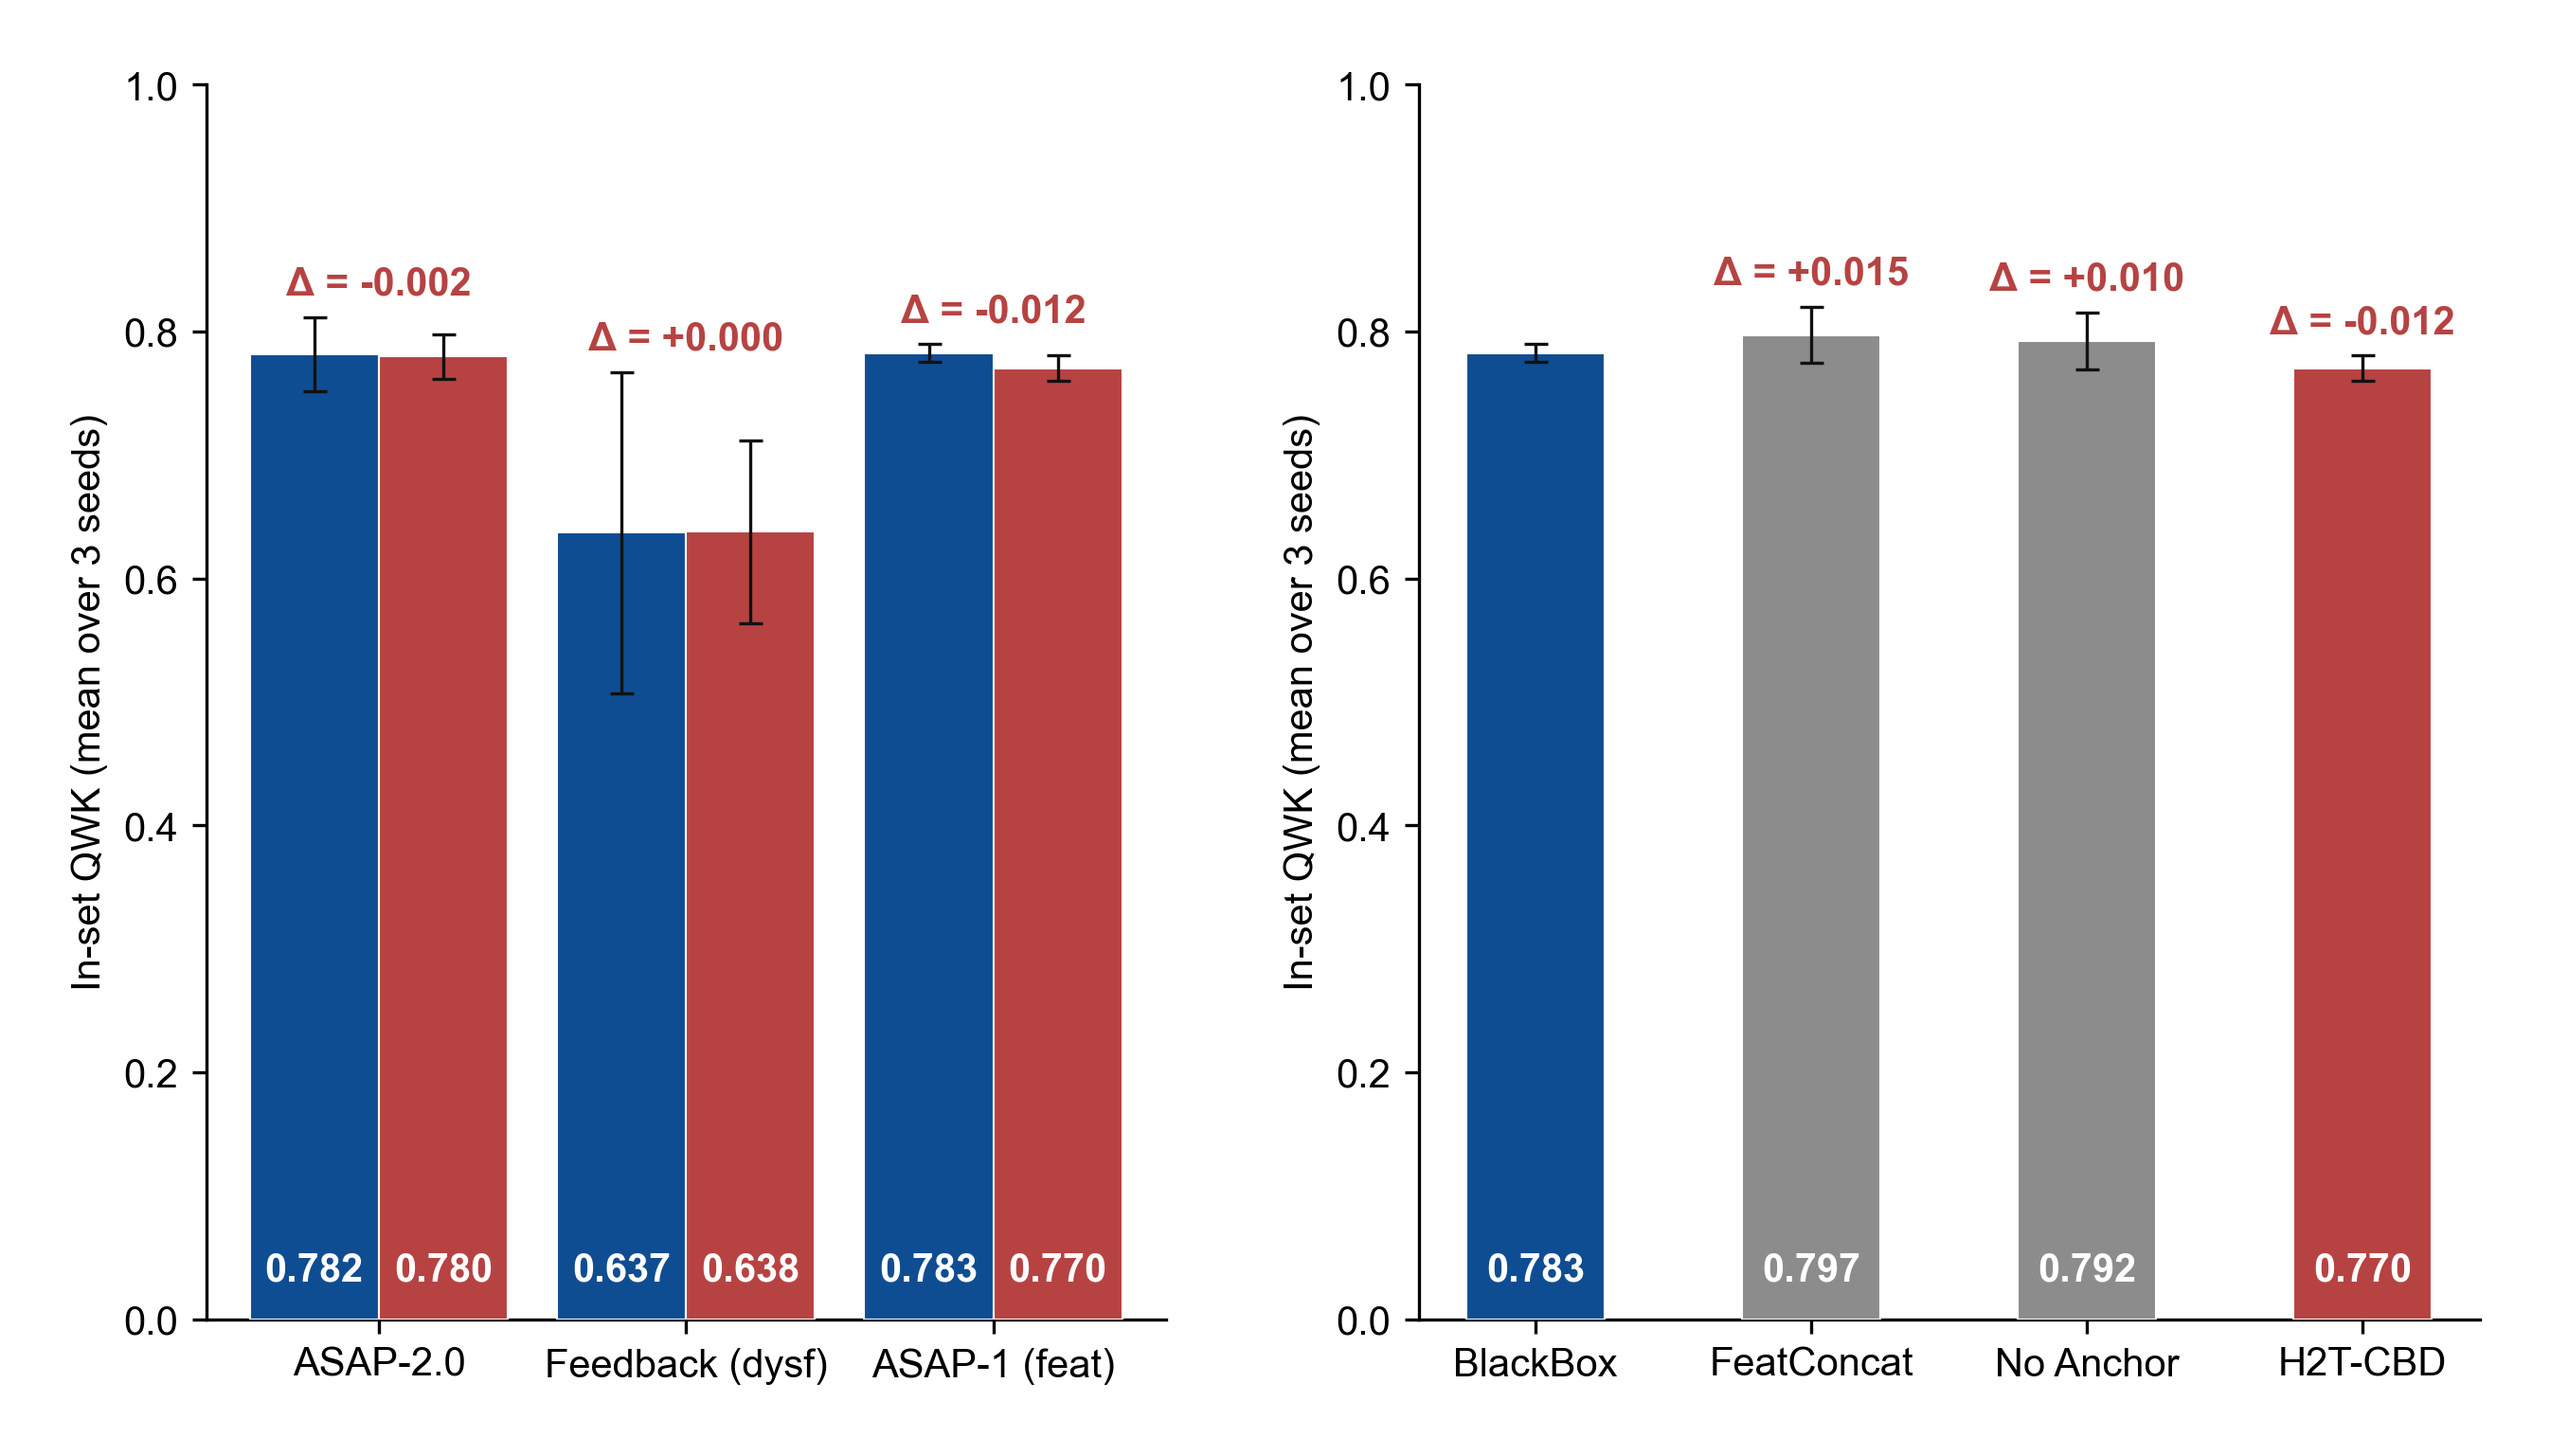
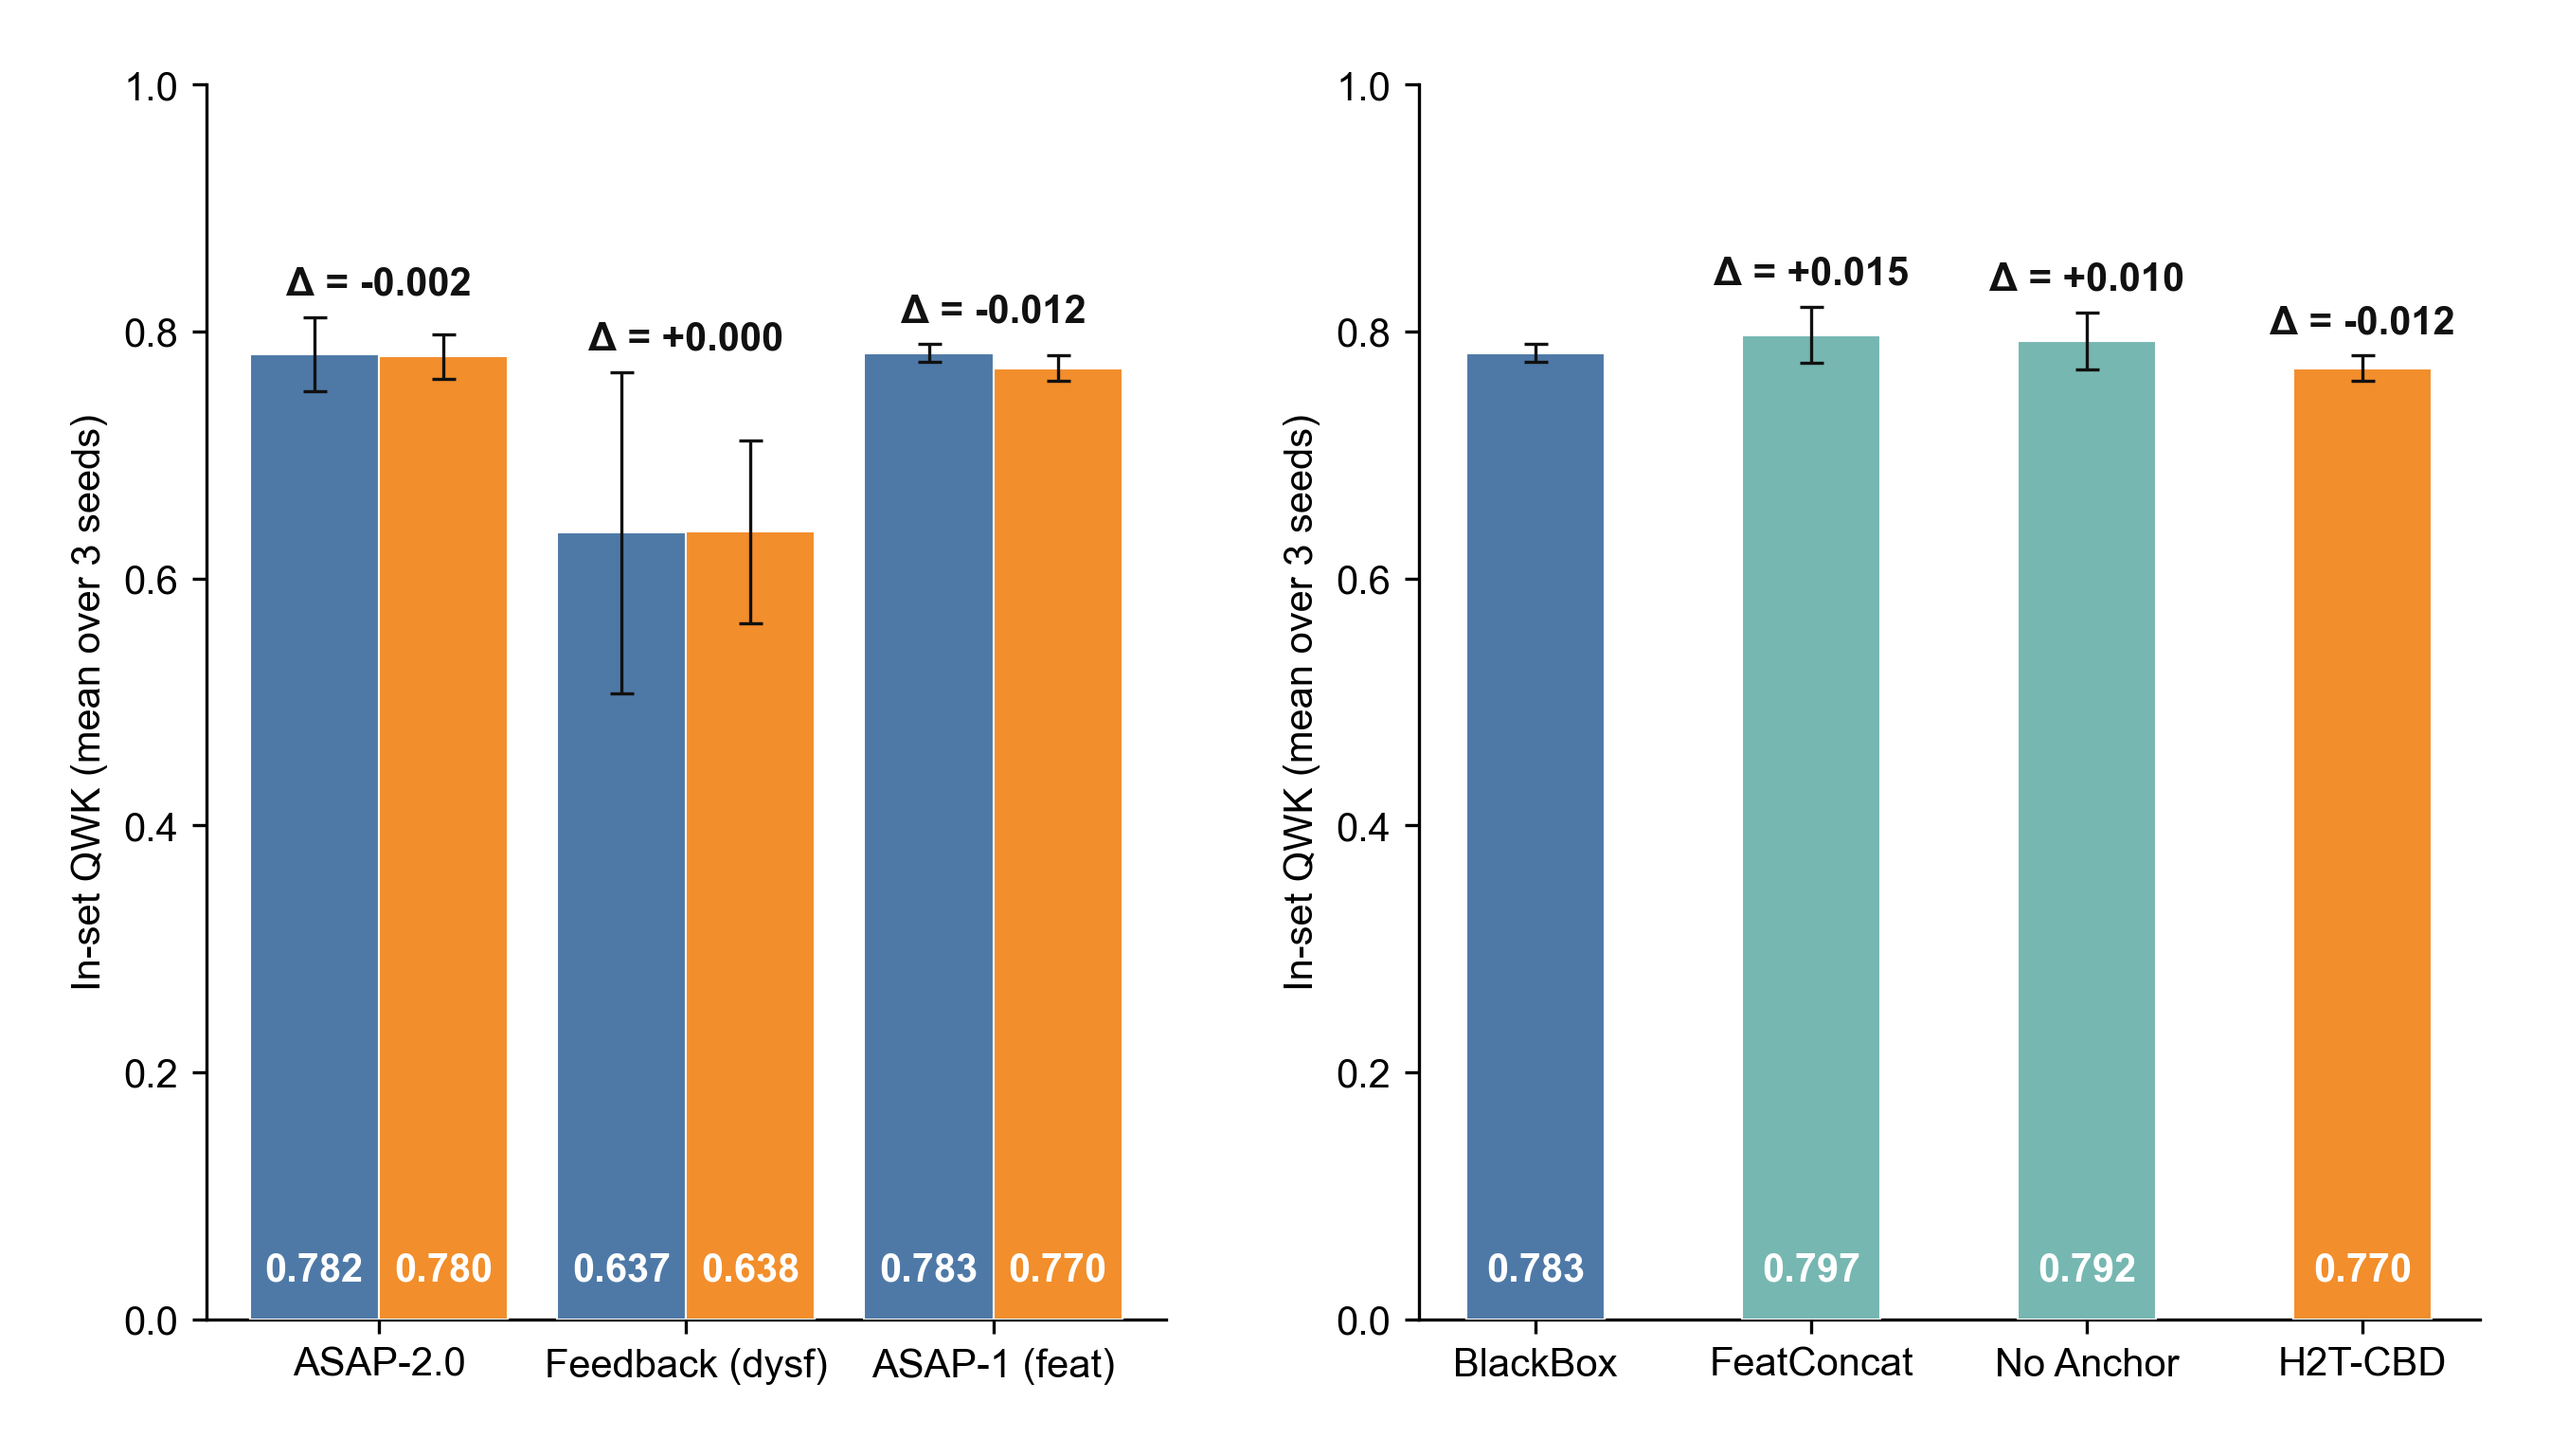
Switch figure palette to Science-style blue/orange/teal with black annotations

diff --git a/figures/figure_scripts/generate_fig4_ars.py b/figures/figure_scripts/generate_fig4_ars.py
@@ -74,9 +74,9 @@ ci_map = dict(zip(ci_df["group"], zip(ci_df["ci_lo"], ci_df["ci_hi"])))
 ci_lo = np.array([ci_map[g][0] for g in ANCHOR_GROUPS])
 ci_hi = np.array([ci_map[g][1] for g in ANCHOR_GROUPS])
 
-BLUE      = '#0F4D92'
-RED       = '#B64342'
-GRAY      = '#8C8C8C'
+BLUE      = '#4E79A7'
+RED       = '#CC3311'
+GRAY      = '#111111'
 INK       = '#111111'
 
 plt.rcParams.update({
@@ -105,12 +105,12 @@ bars = ax.bar(x, ars, 0.55, color=bar_colors, edgecolor='white',
 # ARS values above the upper error-bar caps (breathing room for the CI ticks)
 for i, a in enumerate(ars):
     ax.text(i, ci_hi[i] + 0.022, f'{a:.3f}', ha='center', va='bottom',
-            fontsize=10, fontweight='bold', color=GRAY)
+            fontsize=10, fontweight='bold', color=INK)
 
 # Threshold line
-ax.axhline(THRESHOLD, color=RED, linewidth=1.0, linestyle='--', zorder=2)
+ax.axhline(THRESHOLD, color=INK, linewidth=1.0, linestyle='--', zorder=2)
 ax.text(len(labels) - 0.6, THRESHOLD + 0.012, f'θ = {THRESHOLD}',
-        fontsize=12, color=RED, ha='left', va='bottom', fontweight='bold')
+        fontsize=12, color=INK, ha='left', va='bottom', fontweight='bold')
 
 # Legend at the upper right (empty area: the tallest bar is on the left and the
 # right-hand bars are only 0.110/0.070, so the legend does not overlap).

diff --git a/figures/figure_scripts/generate_fig1_accuracy.py b/figures/figure_scripts/generate_fig1_accuracy.py
@@ -52,10 +52,10 @@ for exp_ids in ([f"B1_Pin_feat_blackbox_s{s}" for s in SEEDS],
     ablation_qwk.append(m); ablation_ci.append(c)
 
 # Colours.
-BLUE     = '#0F4D92'
-RED      = '#B64342'
-DARKGRAY = '#8C8C8C'
-GRAY     = '#8C8C8C'
+BLUE     = '#4E79A7'
+RED      = '#F28E2B'
+DARKGRAY = '#76B7B2'
+GRAY     = '#76B7B2'
 INK      = '#111111'
 WHITE    = '#FFFFFF'
 
@@ -104,7 +104,7 @@ for i in range(3):
     # Delta in red.
     taller_top = max(bb_qwk[i] + bb_ci[i], h2t_qwk[i] + h2t_ci[i])
     ax1.text(x[i], taller_top + 0.012, f'Δ = {_round3(deltas[i]):+.3f}',
-             fontsize=10, ha='center', va='bottom', color=RED, fontweight='bold')
+             fontsize=10, ha='center', va='bottom', color=INK, fontweight='bold')
 
 ax1.set_xticks(x)
 ax1.set_xticklabels(datasets)
@@ -131,7 +131,7 @@ for i in range(4):
     if i > 0:
         d = ablation_qwk[i] - ablation_qwk[0]
         ax2.text(x2[i], ablation_qwk[i] + ablation_ci[i] + 0.012, f'Δ = {_round3(d):+.3f}',
-                 fontsize=10, ha='center', va='bottom', color=RED, fontweight='bold')
+                 fontsize=10, ha='center', va='bottom', color=INK, fontweight='bold')
 
 ax2.set_xticks(x2)
 ax2.set_xticklabels(ablation_labels)

diff --git a/figures/figure_scripts/generate_fig5_validation.py b/figures/figure_scripts/generate_fig5_validation.py
@@ -50,12 +50,12 @@ mmd_mean_6 = float(np.mean(mmd_6))
 mmd_mean_5 = float(np.mean(mmd_5))
 delta_mmd = mmd_mean_5 - mmd_mean_6
 
-BLUE   = '#0F4D92'
-RED    = '#B64342'
-ORANGE = '#8C8C8C'
-GRAY   = '#8C8C8C'
+BLUE   = '#4E79A7'
+RED    = '#CC3311'
+ORANGE = '#F28E2B'
+GRAY   = '#111111'
 
-DKGRY  = '#8C8C8C'
+DKGRY  = '#76B7B2'
 INK    = '#111111'
 
 plt.rcParams.update({

diff --git a/figures/figure_scripts/generate_fig3_bb_delta.py b/figures/figure_scripts/generate_fig3_bb_delta.py
@@ -153,9 +153,9 @@ def main():
     print(f"saved -> {out_dir / 'result.json'}")
 
     # ---- Figure: 48 pairs + 8 prompt-level means ----
-    RED = '#B64342'
-    BLUE = '#0F4D92'
-    GRAY = '#8C8C8C'
+    RED = '#F28E2B'
+    BLUE = '#4E79A7'
+    GRAY = '#333333'
     INK = '#111111'
     plt.rcParams.update({
         'font.family': 'sans-serif',
